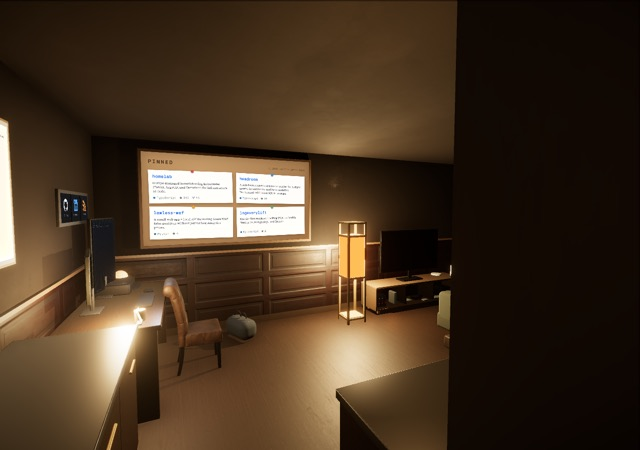
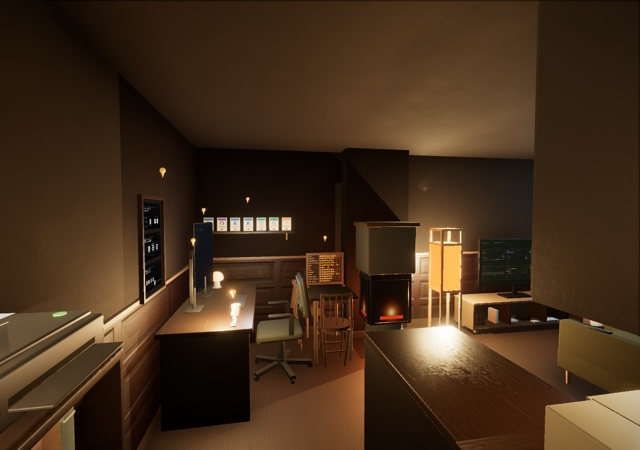
Cut per-frame work in the fun room and retake its poster
The room renders the scene several times a frame (the floor reflector, the
wardrobe mirrors, N8AO's transparency pass), and three.js recomputed every
world matrix on each of those renders. World matrices now update once a frame
at useFrame priority 0.5. The forest outside and the reeded hall cabinet doors
never move, so they are plain instanced meshes with matrices set once instead
of drei Instances.

At 4x CPU throttle the spawn view went from 30.7 to 48.7 fps with an identical
frame.

The room poster behind the hero box and the loading screen is retaken from the
opening camera pose so it shows the flat as it is now.

diff --git a/portfolio/src/components/fun/Outside.tsx b/portfolio/src/components/fun/Outside.tsx
@@ -1,7 +1,6 @@
 "use client";
 
-import { Instance, Instances } from "@react-three/drei";
-import { Fragment, useMemo } from "react";
+import { useLayoutEffect, useMemo, useRef } from "react";
 import * as THREE from "three";
 import { pz } from "./flat";
 
@@ -92,6 +91,50 @@ const TIERS: [number, number, number][] = [
   [0.82, 0.46, 0.38],
 ];
 
+type Tree = { x: number; z: number; height: number; width: number; spin: number; far: boolean };
+
+/**
+ * One tier of one depth band, as a plain instanced mesh with its matrices set
+ * once. drei's Instances re-derives every instance from an Object3D each frame,
+ * which for a forest that never moves is 720 matrix updates for nothing.
+ */
+function Trees({
+  rows,
+  tier,
+  color,
+}: {
+  rows: Tree[];
+  tier: [number, number, number];
+  color: string;
+}) {
+  const ref = useRef<THREE.InstancedMesh>(null);
+  useLayoutEffect(() => {
+    const mesh = ref.current;
+    if (!mesh) return;
+    const [at, wf, hf] = tier;
+    const o = new THREE.Object3D();
+    rows.forEach((t, i) => {
+      o.position.set(t.x, GROUND + t.height * at, t.z);
+      o.rotation.set(0, t.spin, 0);
+      o.scale.set(t.width * wf, t.height * hf, t.width * wf);
+      o.updateMatrix();
+      mesh.setMatrixAt(i, o.matrix);
+    });
+    mesh.instanceMatrix.needsUpdate = true;
+  }, [rows, tier]);
+
+  return (
+    /* Culling off: the instanced mesh keeps the unit cone's bounding sphere at
+       the origin, so three culls the whole forest the moment the flat's centre
+       leaves the frustum, which is every time you actually look out of a
+       window. */
+    <instancedMesh ref={ref} args={[undefined, undefined, rows.length]} frustumCulled={false}>
+      <coneGeometry args={[1, 1, 7]} />
+      <meshBasicMaterial color={color} fog={false} />
+    </instancedMesh>
+  );
+}
+
 export function Outside() {
   const sky = useMemo(() => skyTexture(), []);
 
@@ -114,6 +157,10 @@ export function Outside() {
       };
     });
   }, []);
+  const [nearTrees, farTrees] = useMemo(
+    () => [trees.filter((t) => !t.far), trees.filter((t) => t.far)],
+    [trees],
+  );
 
   return (
     <group>
@@ -137,31 +184,16 @@ export function Outside() {
       {([
         { far: false, color: "#080f0f" },
         { far: true, color: "#18272f" },
-      ] as const).map((band) => (
-        <Fragment key={String(band.far)}>
-          {TIERS.map(([at, wf, hf], tier) => {
-            const rows = trees.filter((t) => t.far === band.far);
-            return (
-              /* Culling off: the instanced mesh keeps the unit cone's bounding
-                 sphere at the origin, so three culls the whole forest the
-                 moment the flat's centre leaves the frustum — which is every
-                 time you actually look out of a window. */
-              <Instances key={tier} limit={rows.length} range={rows.length} frustumCulled={false}>
-                <coneGeometry args={[1, 1, 7]} />
-                <meshBasicMaterial color={band.color} fog={false} />
-                {rows.map((t, i) => (
-                  <Instance
-                    key={i}
-                    position={[t.x, GROUND + t.height * at, t.z]}
-                    rotation={[0, t.spin, 0]}
-                    scale={[t.width * wf, t.height * hf, t.width * wf]}
-                  />
-                ))}
-              </Instances>
-            );
-          })}
-        </Fragment>
-      ))}
+      ] as const).map((band) =>
+        TIERS.map((tier, i) => (
+          <Trees
+            key={`${band.far}-${i}`}
+            rows={band.far ? farTrees : nearTrees}
+            tier={tier}
+            color={band.color}
+          />
+        )),
+      )}
     </group>
   );
 }

diff --git a/portfolio/src/components/fun/Hallway.tsx b/portfolio/src/components/fun/Hallway.tsx
@@ -1,7 +1,7 @@
 "use client";
 
-import { Instance, Instances, RoundedBox } from "@react-three/drei";
-import { useEffect, useMemo } from "react";
+import { RoundedBox } from "@react-three/drei";
+import { useEffect, useLayoutEffect, useMemo, useRef } from "react";
 import * as THREE from "three";
 import { OAK } from "@/components/materials/oak";
 import type { Surface } from "@/components/materials/surface";
@@ -372,22 +372,31 @@ function Plant({ position }: { position: [number, number, number] }) {
 /** The vertical reeding on the cabinet doors, as half-rounds. */
 function Reeding({ width, height, count }: { width: number; height: number; count: number }) {
   const step = width / count;
+  const ref = useRef<THREE.InstancedMesh>(null);
+  /* Matrices set once, for the reason the forest sets its own: drei's
+     Instances would re-derive every reed from an Object3D each frame. */
+  useLayoutEffect(() => {
+    const mesh = ref.current;
+    if (!mesh) return;
+    const o = new THREE.Object3D();
+    for (let i = 0; i < count; i++) {
+      o.position.set(-width / 2 + step * (i + 0.5), 0, 0);
+      o.scale.set(1, height, 1);
+      o.updateMatrix();
+      mesh.setMatrixAt(i, o.matrix);
+    }
+    mesh.instanceMatrix.needsUpdate = true;
+  }, [width, height, count, step]);
+
   return (
     /* Culling off for the reason the forest needs it: the instanced mesh keeps
        its bounding sphere at this group's origin, inside the carcass. */
-    <Instances limit={count} range={count} frustumCulled={false}>
+    <instancedMesh ref={ref} args={[undefined, undefined, count]} frustumCulled={false}>
       {/* Half-round, opening toward +z: three sweeps theta from +z through +x,
           so the front-facing half starts a quarter turn back. */}
       <cylinderGeometry args={[step * 0.42, step * 0.42, 1, 8, 1, false, -Math.PI / 2, Math.PI]} />
       <meshStandardMaterial color={OAK.case} roughness={0.6} metalness={0} />
-      {Array.from({ length: count }, (_, i) => (
-        <Instance
-          key={i}
-          position={[-width / 2 + step * (i + 0.5), 0, 0]}
-          scale={[1, height, 1]}
-        />
-      ))}
-    </Instances>
+    </instancedMesh>
   );
 }
 

diff --git a/portfolio/src/components/fun/FunRoom.tsx b/portfolio/src/components/fun/FunRoom.tsx
@@ -234,6 +234,29 @@ function ContextGuard({ onLost }: { onLost: () => void }) {
   return null;
 }
 
+/**
+ * World matrices, once a frame rather than once per render.
+ *
+ * three.js walks the whole scene graph at the start of every `render`, and this
+ * room renders the scene several times a frame: the main pass, each reflector,
+ * and N8AO's transparency pass. Priority 0.5 runs after every default-priority
+ * callback has moved what it moves and before the composer draws at 1. The
+ * reflectors render at 0 and see the previous frame's matrices, which their
+ * blur hides.
+ */
+function WorldMatrices() {
+  const get = useThree((s) => s.get);
+  useEffect(() => {
+    const { scene } = get();
+    scene.matrixWorldAutoUpdate = false;
+    return () => {
+      scene.matrixWorldAutoUpdate = true;
+    };
+  }, [get]);
+  useFrame(({ scene }) => scene.updateMatrixWorld(), 0.5);
+  return null;
+}
+
 /** Mounts inside the Suspense boundary, so its effect cannot run until every
  *  asset under it has resolved. */
 function SceneReady({ onReady }: { onReady: () => void }) {
@@ -1242,6 +1265,7 @@ export default function FunRoom({
             onSit={sitDown}
             onStand={standUp}
           />
+          <WorldMatrices />
           <ContextGuard onLost={onContextLost} />
         </Canvas>
       </div>

diff --git a/BACKLOG.md b/BACKLOG.md
@@ -143,7 +143,7 @@ Known gaps the team has agreed to leave for later. Each entry: **what**, **why d
 - **Where:** `portfolio/src/components/InlineGlobeScene.tsx` (the `TILT` constant, the meridian ring mesh and the pedestal meshes).
 
 ### Three hero posters are captured by hand
-- **What:** `portfolio/public/images/room-poster.jpg` (640x450, 37KB) is a screenshot of the `/fun` scene. `globe-poster.webp` (1430x906, 34KB) and `globe-poster-mobile.jpg` (780x807, 41KB) are frames of the hero's own globe scene, added 2026-08-23 so phones get the still life at all — under 768px the WebGL scene never mounts, because it measures 211KB of gzipped JS (883KB parsed) plus 577KB of texture. Nothing regenerates any of the three, so a change to the room's furniture, the globe's grade or the camera pose leaves the hero showing a scene that no longer exists. `globe-poster` was re-cut on 2026-09-01 after it had drifted 145px from the live framing; `room-poster` and `globe-poster-mobile` are still the 2026-08-23 captures and still carry the pre-2026-09-01 pin.
+- **What:** `portfolio/public/images/room-poster.jpg` (640x450, 58KB) is a screenshot of the `/fun` scene. `globe-poster.webp` (1430x906, 34KB) and `globe-poster-mobile.jpg` (780x807, 41KB) are frames of the hero's own globe scene, added 2026-08-23 so phones get the still life at all — under 768px the WebGL scene never mounts, because it measures 211KB of gzipped JS (883KB parsed) plus 577KB of texture. Nothing regenerates any of the three, so a change to the room's furniture, the globe's grade or the camera pose leaves the hero showing a scene that no longer exists. `globe-poster` was re-cut on 2026-09-01 after it had drifted 145px from the live framing and `room-poster` on 2026-09-11 from the room's opening pose; `globe-poster-mobile` is still the 2026-08-23 capture and still carries the pre-2026-09-01 pin.
 - **Why deferred:** Automating it means driving a headless browser with WebGL in CI, hiding overlays, waiting for textures, catching the globe at a rotation where Oslo faces the camera, and committing binaries each run. Disproportionate for images that change a few times a year.
 - **Unblock:** A `make hero-posters` target running Playwright against a local dev server. The recipe, now used three times: activate the scene with a synthetic `pointermove`, wait ~4s so textures resolve but the globe has barely rotated from its Atlantic-facing start, set `visibility: hidden` on every sibling of the globe layer plus the header and footer, then screenshot. For an off-centre crop, insert a transparent fixed-position div at the wanted rect and screenshot that element — `sips` only crops from the centre. Three traps found on the 2026-09-01 re-cut: capture at the same aspect the box displays at, or `object-cover` crops the still away from the render it has to match; the fade wrapper is the backdrop's own child containing the canvas, not `canvas.closest('div').parentElement`, because r3f inserts a div of its own and forcing opacity on the wrong node captures a half-faded frame; and CDP `Emulation.setDeviceMetricsOverride` makes the WebGL layer drop out of screenshots entirely, so set the viewport rather than the device metrics. `cwebp -q 91 -m 6 -sharp_yuv` beats JPEG by roughly 3x on these dark plates.
 - **Where:** `portfolio/public/images/{room-poster,globe-poster-mobile}.jpg`, `portfolio/public/images/globe-poster.webp`, `portfolio/src/components/InlineGlobe.tsx`, `portfolio/src/components/sections/Hero.tsx`, `portfolio/src/components/fun/Room.tsx`.
